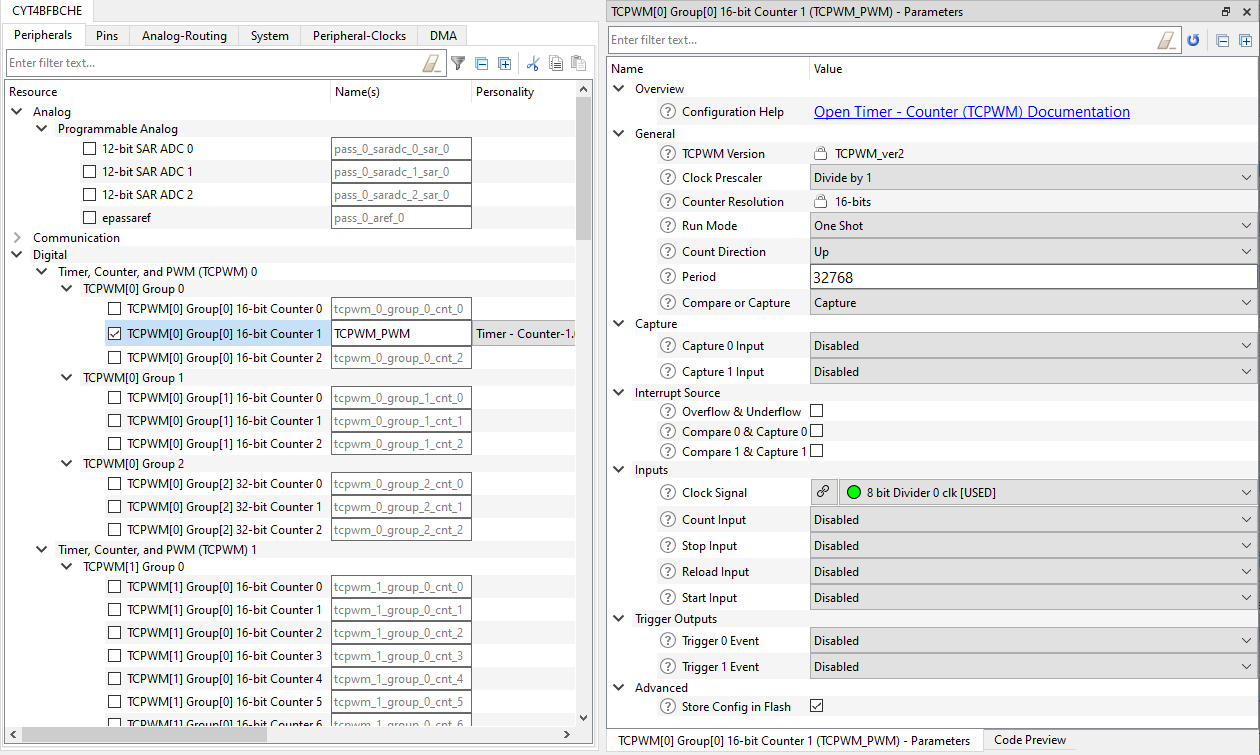
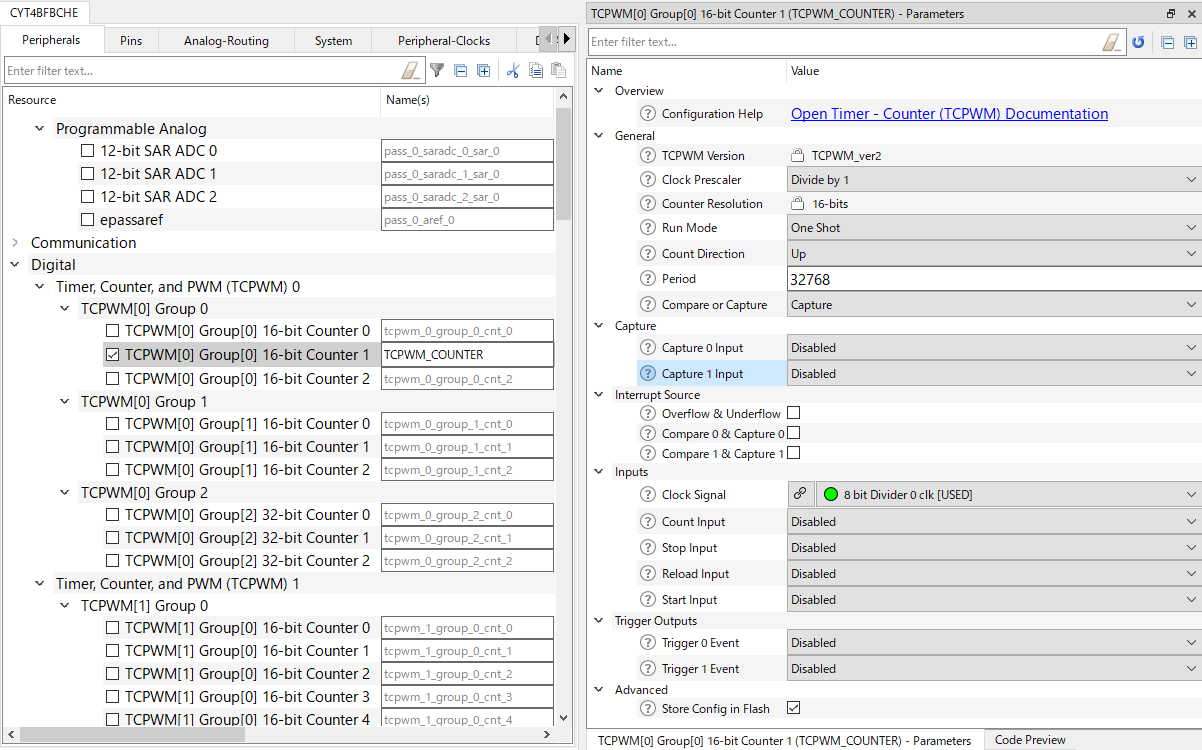
Upload SHA-1: e805e07bee120c776468b6c4f8433500745d1a0e

Changed region(s): [[0.0, 0.0, 1.0, 1.0]]

diff --git a/main.c b/main.c
@@ -24,6 +24,7 @@
  * CONTRACT, TORT OR OTHERWISE, ARISING FROM, OUT OF OR IN CONNECTION WITH THE SOFTWARE OR THE USE OR OTHER DEALINGS
  * IN THE SOFTWARE.
  *********************************************************************************************************************/
+
 /*********************************************************************************************************************/
 /*-----------------------------------------------------Includes------------------------------------------------------*/
 /*********************************************************************************************************************/
@@ -36,15 +37,11 @@
 /*********************************************************************************************************************/
 /*------------------------------------------------------Macros-------------------------------------------------------*/
 /*********************************************************************************************************************/
-/* Configuration for timer instance 0, Group 0, Counter 1 and used interrupt */
+/* Interrupt source to be triggered by software */
 #define TCPWM_INTR_SOURCE  CY_TCPWM_INT_ON_TC
 
 /*********************************************************************************************************************/
 /*-------------------------------------------------Global variables--------------------------------------------------*/
-/*********************************************************************************************************************/
-
-/*********************************************************************************************************************/
-/*--------------------------------------------Private Variables/Constants--------------------------------------------*/
 /*********************************************************************************************************************/
 /* Peripheral interrupt configuration structure */
 const cy_stc_sysint_t IRQ_CFG_PERIPHERAL =
@@ -60,21 +57,21 @@ const cy_stc_sysint_t IRQ_CFG_PERIPHERAL =
 /*********************************************************************************************************************/
 /*---------------------------------------------Function Implementations----------------------------------------------*/
 /*********************************************************************************************************************/
-
 /**********************************************************************************************************************
  * Function Name: handle_Counter_Interrupt_0
  * Summary:
- *  This function implements the interrupt handler, which is called by a peripheral based software triggered interrupt.
+ *  This is the interrupt handler for a counter generated interrupt processing.
  * Parameters:
  *  none
- * Retrun:
- *  none
+ * Return:
+ *  void
  **********************************************************************************************************************
  */
 void handle_Counter_Interrupt_0(void)
 {
-     /* Clear TCPWM TC interrupt flag */
-    Cy_TCPWM_ClearInterrupt(TCPWM_PWM_HW, TCPWM_PWM_NUM, TCPWM_INTR_SOURCE);
+    /* Clear TCPWM TC interrupt flag */
+    Cy_TCPWM_ClearInterrupt(TCPWM_COUNTER_HW, TCPWM_COUNTER_NUM, TCPWM_INTR_SOURCE);
+
     /* Toggle the USER LED state */
     cyhal_gpio_toggle(CYBSP_USER_LED2);
 }
@@ -82,26 +79,33 @@ void handle_Counter_Interrupt_0(void)
 /**********************************************************************************************************************
  * Function Name: init_Timer_Interrupt
  * Summary:
- *  This function sets up and initializes the TCPWM0 group 0 counter 1 timer and enables software to set the terminal
- *  count interrupt.
+ *  This is the initializing function for timer setup.
  * Parameters:
  *  none
- * Retrun:
- *  none
+ * Return:
+ *  void
  **********************************************************************************************************************
  */
 static void init_Timer_Interrupt(void)
 {
     /* Initialize TCPWM0_GRP0_COUNTER 1 as Counter */
-    CY_ASSERT(Cy_TCPWM_Counter_Init(TCPWM_PWM_HW,TCPWM_PWM_NUM, &TCPWM_PWM_config) == CY_TCPWM_SUCCESS);
+    if (Cy_TCPWM_Counter_Init(TCPWM_COUNTER_HW,TCPWM_COUNTER_NUM, &TCPWM_COUNTER_config) != CY_TCPWM_SUCCESS)
+    {
+        CY_ASSERT(0);
+    }
+
     /* Enable TCPWM0_GRP0_COUNTER 1 */
-    Cy_TCPWM_Counter_Enable(TCPWM_PWM_HW, TCPWM_PWM_NUM);
+    Cy_TCPWM_Counter_Enable(TCPWM_COUNTER_HW, TCPWM_COUNTER_NUM);
 
     /* Enable desired interrupt for the counter */
-    Cy_TCPWM_SetInterruptMask(TCPWM_PWM_HW, TCPWM_PWM_NUM, TCPWM_INTR_SOURCE);
+    Cy_TCPWM_SetInterruptMask(TCPWM_COUNTER_HW, TCPWM_COUNTER_NUM, TCPWM_INTR_SOURCE);
 
     /*  Setting up the peripheral interrupt */
-    CY_ASSERT(Cy_SysInt_Init(&IRQ_CFG_PERIPHERAL, handle_Counter_Interrupt_0) == CY_SYSINT_SUCCESS);
+    if (Cy_SysInt_Init(&IRQ_CFG_PERIPHERAL, handle_Counter_Interrupt_0) != CY_SYSINT_SUCCESS)
+    {
+        CY_ASSERT(0);
+    }
+
     /* Enable the peripheral interrupt mapped to NVICMux5 */
     NVIC_EnableIRQ(NvicMux5_IRQn);
 }
@@ -112,37 +116,37 @@ static void init_Timer_Interrupt(void)
  *  This is the main function.
  * Parameters:
  *  none
- * Retrun:
- *  none
+ * Return:
+ *  int
  **********************************************************************************************************************
  */
 int main(void)
 {
-    uint8_t uartReadValue;      /* Variable for storing character read from terminal */
-
-#if defined (CY_DEVICE_SECURE)
-    cyhal_wdt_t wdt_obj;
-
-    /* Clear watchdog timer so that it doesn't trigger a reset */
-    CY_ASSERT(cyhal_wdt_init(&wdt_obj, cyhal_wdt_get_max_timeout_ms()) == CY_RSLT_SUCCESS);
-    cyhal_wdt_free(&wdt_obj);
-#endif
+	/* Variable for storing character read from terminal */
+    uint8_t uartReadValue;
 
     /* Initialize the device and board peripherals */
-    CY_ASSERT(cybsp_init() == CY_RSLT_SUCCESS);
+    if (cybsp_init() != CY_RSLT_SUCCESS)
+    {
+        CY_ASSERT(0);
+    }
 
     /* Enable global interrupts */
     __enable_irq();
 
     /* Initialize retarget-io to use the debug UART port */
-    CY_ASSERT(cy_retarget_io_init(CYBSP_DEBUG_UART_TX, CYBSP_DEBUG_UART_RX,
-                                  CY_RETARGET_IO_BAUDRATE) == CY_RSLT_SUCCESS);
+    if (cy_retarget_io_init(CYBSP_DEBUG_UART_TX, CYBSP_DEBUG_UART_RX,
+                                  CY_RETARGET_IO_BAUDRATE) != CY_RSLT_SUCCESS)
+    {
+        CY_ASSERT(0);
+    }
 
-    /* Initialize the User LED 1 and 2 */
-    CY_ASSERT(cyhal_gpio_init(CYBSP_USER_LED1, CYHAL_GPIO_DIR_OUTPUT,
-                              CYHAL_GPIO_DRIVE_STRONG, CYBSP_LED_STATE_OFF) == CY_RSLT_SUCCESS);
-    CY_ASSERT(cyhal_gpio_init(CYBSP_USER_LED2, CYHAL_GPIO_DIR_OUTPUT,
-                              CYHAL_GPIO_DRIVE_STRONG, CYBSP_LED_STATE_OFF) == CY_RSLT_SUCCESS);
+    /* Initialize the User LED 2 */
+    if (cyhal_gpio_init(CYBSP_USER_LED2, CYHAL_GPIO_DIR_OUTPUT,
+                              CYHAL_GPIO_DRIVE_STRONG, CYBSP_LED_STATE_OFF) != CY_RSLT_SUCCESS)
+    {
+        CY_ASSERT(0);
+    }
 
     /* Initialize TCPWM based software interrupts */
     init_Timer_Interrupt();
@@ -164,10 +168,9 @@ int main(void)
             if (uartReadValue == 'p')
             {
                 /* Set Interrupt for configured timer resource by software */
-                Cy_TCPWM_SetInterrupt(TCPWM_PWM_HW, TCPWM_PWM_NUM, TCPWM_INTR_SOURCE);
+                Cy_TCPWM_SetInterrupt(TCPWM_COUNTER_HW, TCPWM_COUNTER_NUM, TCPWM_INTR_SOURCE);
             }
         }
     }
 }
-
 /* [] END OF FILE */

diff --git a/README.md b/README.md
@@ -9,14 +9,12 @@ The device used in this code example (CE) is:
 
 ## Board
 The board used for testing is:
-- TRAVEO™ T2G evaluation kit (`KIT_T2G-B-H_EVK`, `KIT_T2G-B-H_LITE`)
+- TRAVEO™ T2G evaluation kit ([KIT_T2G-B-H_EVK](https://www.infineon.com/cms/en/product/evaluation-boards/kit_t2g-b-h_evk/), [KIT_T2G-B-H_LITE](https://www.infineon.com/cms/en/product/evaluation-boards/kit_t2g-b-h_lite/))
 
 ## Scope of work
-
-In this example, software is used to generate a direct CPU interrupt and an indirect interrupt, by setting an interrupt bit of a timer peripheral.
+In this example, software is used to generate an indirect interrupt, by setting the interrupt bit of a timer peripheral.
 
 ## Introduction  
-
 **Interrupts**  
 TRAVEO™ T2G platform supports the following interrupt features:
 - Supports up to 1023 system interrupts
@@ -35,49 +33,52 @@ CPU interrupts support DeepSleep (WIC) functionality.
 - Configurable priority levels (eight levels for Cortex-M7 and four levels for Cortex-M0+) for each interrupt
 - Level-triggered interrupt signals
 
-More details can be found in [Technical Reference Manual (TRM)](https://www.cypress.com/documentation/technical-reference-manuals/traveo-ii-automotive-body-controller-high-family), [Registers TRM](https://www.cypress.com/documentation/technical-reference-manuals/traveo-t2g-tvii-b-h-8m-registers-body-controller-high) and [Data Sheet](https://www.cypress.com/documentation/datasheets/cyt4bf-datasheet-32-bit-arm-cortex-m7-microcontroller-traveo-ii-family).
+More details can be found in [Technical Reference Manual (TRM)](https://www.infineon.com/dgdl/?fileId=5546d4627600a6bc017600bfae720007), [Registers TRM](https://www.infineon.com/dgdl/?fileId=5546d4627600a6bc017600be2aef0004) and [Data Sheet](https://www.infineon.com/dgdl/?fileId=5546d46275b79adb0175dc8387f93228).
 
 ## Hardware setup
 This CE has been developed for:
-- TRAVEO™ T2G evaluation kit (`KIT_T2G-B-H_EVK`)<BR>
-<img src="./images/KIT_T2G-B-H_EVK.gif" width="800" /><BR>
+- TRAVEO™ T2G evaluation kit ([KIT_T2G-B-H_EVK](https://www.infineon.com/cms/en/product/evaluation-boards/kit_t2g-b-h_evk/))<BR>
+<img src="./images/KIT_T2G-B-H_EVK.gif"/><BR>
+No changes are required from the board's default settings.
+
+- TRAVEO™ T2G Body High Lite evaluation kit ([KIT_T2G-B-H_LITE](https://www.infineon.com/cms/en/product/evaluation-boards/kit_t2g-b-h_lite/))<BR>
+<img src="./images/KIT_T2G-B-H_LITE.gif"/><BR>
 No changes are required from the board's default settings.
 
 ## Implementation
+This design consists of one TCPWM counter and one user LED. Interrupts can be generated by using software to set an interrupt flag in the timer resource. For this purpose, the timer is configured to allow software setting an interrupt request from the terminal. This interrupt is processed by an interrupt handler, which will toggle the user LED.
 
-This design consists of one TCPWM counters and two user LEDs. Interrupts can be generated by using software to set an interrupt flag in the timer resource. For this purpose, the timer is configured to allow software to set an interrupt request from terminal. This interrupt is processed by handler, which will toggle the user LEDs.
+**STDIN / STDOUT setting**
 
-**STDOUT setting**
-
-Initialization of the GPIO for UART is done in the [cy_retarget_io_init()](https://infineon.github.io/retarget-io/html/group__group__board__libs.html#gaddff65f18135a8491811ee3886e69707) function.
+Initialization of the GPIO for UART is done in the <a href="https://infineon.github.io/retarget-io/html/group__group__board__libs.html#gaddff65f18135a8491811ee3886e69707"><i>cy_retarget_io_init()</i></a> function.
 - Initialize the pin specified by CYBSP_DEBUG_UART_TX as UART TX, the pin specified by CYBSP_DEBUG_UART_RX as UART RX (these pins are connected to KitProg3 COM port)
-- The serial port parameters become to 8N1 and 115200 baud
+- The serial port parameters are set to 8N1 and 115200 baud
+
+<a href="https://infineon.github.io/mtb-hal-cat1/html/group__group__hal__uart.html#ga89108b2d339dc9863ec660588e3a4a12"><i>cyhal_uart_getc()</i></a> returns the user input from the terminal as received data.
 
 **GPIO port pin initialization**
 
-Initialization of the GPIO port pin is done once in the [Cy_GPIO_Pin_Init()](https://infineon.github.io/mtb-pdl-cat1/pdl_api_reference_manual/html/group__group__gpio__functions__init.html#gad61553f65d4e6bd827eb6464a7913461) function.
-- Initialize the pin specified by CYBSP_USER_LED1/CYBSP_USER_LED2 as output (initial level = H, LED turns off)
+Initialization of the GPIO port pin is done once in the <a href="https://infineon.github.io/mtb-hal-cat1/html/group__group__hal__gpio.html#gab93322030909d3af6a9fc1a3b2eccbaa"><i>cyhal_gpio_init()</i></a> function.
+- Initialize the pin specified by *CYBSP_USER_LED2* as output (initial level = H, LED turns off)
 
 **TCPWM initialization**
 
-API calls for the TCPWM initialization is done in `init_Timer_INTR` function.
-- To initialize the TCPWM counter, [Cy_TCPWM_Counter_Init()](https://infineon.github.io/mtb-pdl-cat1/pdl_api_reference_manual/html/group__group__tcpwm__functions__counter.html#ga6068a06ddc8a07c67bb6df86e920944c) is called using structure [cy_stc_tcpwm_counter_config_t](https://infineon.github.io/mtb-pdl-cat1/pdl_api_reference_manual/html/structcy__stc__tcpwm__counter__config__t.html). This is auto-coded by the Device Configurator, using the following arguments:
+API calls for the TCPWM initialization is done in *init_Timer_Interrupt()* function.
+- To initialize the TCPWM counter, <a href="https://infineon.github.io/mtb-pdl-cat1/pdl_api_reference_manual/html/group__group__tcpwm__functions__counter.html#ga6068a06ddc8a07c67bb6df86e920944c"><i>Cy_TCPWM_Counter_Init()</i></a> is called using structure <a href="https://infineon.github.io/mtb-pdl-cat1/pdl_api_reference_manual/html/structcy__stc__tcpwm__counter__config__t.html"><i>cy_stc_tcpwm_counter_config_t</i></a>. This is auto-coded by the Device Configurator, using the following arguments:
 
-    - *Figure 1. Counter setting*<BR><img src="./images/counter.png" width="800"/>
+    - *Counter settings*<BR><img src="./images/counter.png" width="800"/>
 
-- Then the counter is enabled by [Cy_TCPWM_Counter_Enable()](https://infineon.github.io/mtb-pdl-cat1/pdl_api_reference_manual/html/group__group__tcpwm__functions__counter.html#ga1707e2cc291fe486fbea346157c65bff), and the terminal count interrupt is enabled by setting [Cy_TCPWM_SetInterruptMask()](https://infineon.github.io/mtb-pdl-cat1/pdl_api_reference_manual/html/group__group__tcpwm__functions__common.html#ga47ec0d6214c01f67774fb97b9c3f0878)
-- Next the interrupt handler is registered by using [Cy_SysInt_Init()](https://infineon.github.io/mtb-pdl-cat1/pdl_api_reference_manual/html/group__group__sysint__functions.html#gab2ff6820a898e9af3f780000054eea5d)
-- Last, `NVIC_EnableIRQ()` is called to enable this IRQ
+- The counter is enabled by <a href="https://infineon.github.io/mtb-pdl-cat1/pdl_api_reference_manual/html/group__group__tcpwm__functions__counter.html#ga1707e2cc291fe486fbea346157c65bff"><i>Cy_TCPWM_Counter_Enable()</i></a>, and the terminal count interrupt is enabled by setting <a href="https://infineon.github.io/mtb-pdl-cat1/pdl_api_reference_manual/html/group__group__tcpwm__functions__common.html#ga47ec0d6214c01f67774fb97b9c3f0878"><i>Cy_TCPWM_SetInterruptMask()</i></a> using the mask value of *CY_TCPWM_INT_ON_TC*
+- Next the interrupt handler is registered by using <a href="https://infineon.github.io/mtb-pdl-cat1/pdl_api_reference_manual/html/group__group__sysint__functions.html#gab2ff6820a898e9af3f780000054eea5d"><i>Cy_SysInt_Init()</i></a> and enabled via the *NVIC_EnableIRQ()* function
 
 **Interrupt detection**
 
-- if 'p' is pressed, [Cy_TCPWM_SetInterrupt()](https://infineon.github.io/mtb-pdl-cat1/pdl_api_reference_manual/html/group__group__tcpwm__functions__common.html#ga567d7ae9e63aed64f0c73e45183a4674) is used to set the interrupt flag of the configured counter. This will cause an interrupt in the CPU which will then be handled by the registered `handle_Counter_Interrupt_0`. The handler clears the interrupt flag by using [Cy_TCPWM_ClearInterrupt()](https://infineon.github.io/mtb-pdl-cat1/pdl_api_reference_manual/html/group__group__tcpwm__functions__common.html#ga0c7a2d667dc983c82327463529f5d283) in the counter and switches the state of the user LED2.
+- if 'p' is pressed, <a href="https://infineon.github.io/mtb-pdl-cat1/pdl_api_reference_manual/html/group__group__tcpwm__functions__common.html#ga567d7ae9e63aed64f0c73e45183a4674"><i>Cy_TCPWM_SetInterrupt()</i></a> is used to set the interrupt flag of the configured counter. This will cause a peripheral interrupt in the CPU which will then be handled by the registered *handle_Counter_Interrupt_0()* function. The handler function clears the interrupt flag by using <a href="https://infineon.github.io/mtb-pdl-cat1/pdl_api_reference_manual/html/group__group__tcpwm__functions__common.html#ga0c7a2d667dc983c82327463529f5d283"><i>Cy_TCPWM_ClearInterrupt()</i></a> in the counter and toggles the state of the user LED2 by calling <a href="https://infineon.github.io/mtb-hal-cat1/html/group__group__hal__gpio.html#gacf9c6cb7d4f6f25828a62d44648b745d"><i>cyhal_gpio_toggle()</i></a>.
 
 ## Run and Test
+For this example, a terminal emulator is required to display outputs and receive keys pressed. You can install a terminal emulator if you do not have one. In this example, [Tera Term](https://ttssh2.osdn.jp/index.html.en) was used as the terminal emulator.
 
-For this example, a terminal emulator is required for displaying outputs. Install a terminal emulator if you do not have one. Instructions in this document use [Tera Term](https://ttssh2.osdn.jp/index.html.en).
-
-After code compilation, perform the following steps to flashing the device:
+After code compilation, perform the following steps to flash the device:
 1. Connect the board to your PC using the provided USB cable through the KitProg3 USB connector.
 2. Open a terminal program and select the KitProg3 COM port. Set the serial port parameters to 8N1 and 115200 baud.
 3. Program the board using one of the following:
@@ -85,20 +86,17 @@ After code compilation, perform the following steps to flashing the device:
     - In the **Quick Panel**, scroll down, and click **[Project Name] Program (KitProg3_MiniProg4)**.
 4. After programming, the code example starts automatically. Confirm that the messages are displayed on the UART terminal.
 
-    - *Figure 2. Terminal output on program startup*<BR><img src="./images/terminal.png" width="640" />
+    - *Terminal output on program startup*<BR><img src="./images/terminal.png" width="640" />
 
-5. You can debug the example to step through the code. In the IDE, use the **[Project Name] Debug (KitProg3_MiniProg4)** configuration in the **Quick Panel**. For details, see the "Program and debug" section in the [Eclipse IDE for ModusToolbox™ software user guide](https://www.cypress.com/MTBEclipseIDEUserGuide).
+5. You can debug the example to step through the code. In the IDE, use the **[Project Name] Debug (KitProg3_MiniProg4)** configuration in the **Quick Panel**. For details, see the "Program and debug" section in the [Eclipse IDE for ModusToolbox™ software user guide](https://www.infineon.com/dgdl/?fileId=8ac78c8c8386267f0183a8d7043b58ee).
 
-**Note:** **(Only while debugging)** On the CM7 CPU, some code in `main()` may execute before the debugger halts at the beginning of `main()`. This means that some code executes twice: once before the debugger stops execution, and again after the debugger resets the program counter to the beginning of `main()`. See [KBA231071](https://community.cypress.com/docs/DOC-21143) to learn about this and for the workaround.
-
+**Note:** **(Only while debugging)** On the CM7 CPU, some code in *main()* may execute before the debugger halts at the beginning of *main()*. This means that some code executes twice: once before the debugger stops execution, and again after the debugger resets the program counter to the beginning of *main()*. See [KBA231071](https://community.infineon.com/t5/Knowledge-Base-Articles/PSoC-6-MCU-Code-in-main-executes-before-the-debugger-halts-at-the-first-line-of/ta-p/253856) to learn about this and for the workaround.
 
 ## References  
-
 Relevant Application notes are:
 - AN235305 - GETTING STARTED WITH TRAVEO™ T2G FAMILY MCUS IN MODUSTOOLBOX™
-- [AN224434](https://www.infineon.com/dgdl/Infineon-AN224434_Clock_Configuration_Setup_in_Traveo_II_Family_CYT4B_Series-ApplicationNotes-v03_00-EN.pdf?fileId=8ac78c8c7cdc391c017d0d3a71ec674a) - Clock configuration setup in TRAVEO™ T2G family CYT4B series
-- [AN219842](https://www.infineon.com/dgdl/Infineon-AN219842_How_to_use_interrupt_in_TRAVEO_II-ApplicationNotes-v07_00-EN.pdf?fileId=8ac78c8c7cdc391c017d0d3a490a6732) - How to use interrupt in TRAVEO™ II
-- <a href="https://www.infineon.com/dgdl/Infineon-AN220224_How_to_Use_Timer_Counter_and_PWM_(TCPWM)_in_Traveo_II_Family-ApplicationNotes-v04_00-EN.pdf?fileId=8ac78c8c7cdc391c017d0d3a800a6752">AN220224</a> - How to Use Timer, Counter, and PWM (TCPWM) in Traveo II Family
+- [AN219842](https://www.infineon.com/dgdl/?fileId=8ac78c8c7cdc391c017d0d3a490a6732) - How to use interrupt in TRAVEO™ II
+- [AN220224](https://www.infineon.com/dgdl/?fileId=8ac78c8c7cdc391c017d0d3a800a6752) - How to Use Timer, Counter, and PWM (TCPWM) in Traveo II Family
 
 ModusToolbox™ is available online:
 - <https://www.infineon.com/modustoolbox>

diff --git a/changelog.md b/changelog.md
@@ -1,2 +1,3 @@
 ## Changelog  
 V1.0.0 2022-01-30 Initial version
+V1.0.1 2022-06-09 Maintenance update (functionalities are not changed)
